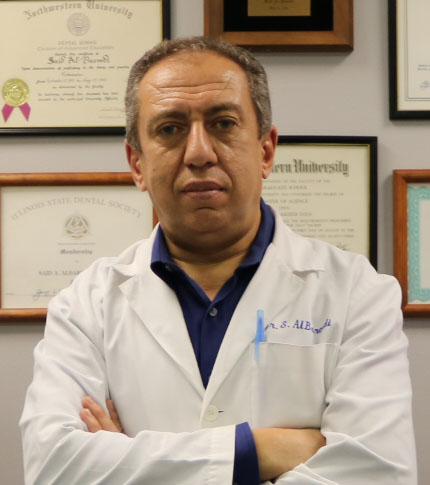
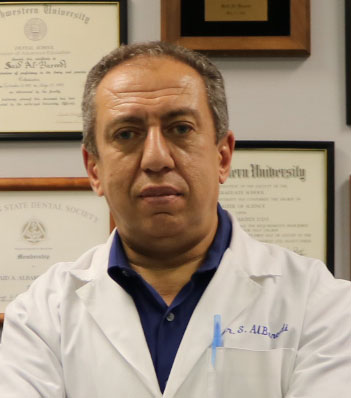
mobile functionality

diff --git a/style.css b/style.css
@@ -98,7 +98,7 @@ body {
   font-family: "Russo One", sans-serif;
 }
 .logoTextBottom {
-  background-color: orange;
+  /* background-color: orange; */
   font-size: 14px;
   letter-spacing: 0.4px;
   font-family: "Titillium Web", sans-serif;
@@ -599,6 +599,7 @@ input.contactFormInput:valid + .formIcon {
   grid-column: 3/4;
 }
 .contactIcon {
+  /* background-color: pink; */
   margin-right: 4px;
   font-size: 18px;
   opacity: 0.9;
@@ -703,7 +704,7 @@ input.contactFormInput:valid + .formIcon {
 .statNumber {
   font-family: "Poppins", sans-serif;
   color: #00c2d7;
-  font-size: 27px;
+  font-size: 28px;
   margin-bottom: 2px;
 }
 .statDescription {
@@ -926,6 +927,7 @@ input.contactFormInput:valid + .formIcon {
   font-style: italic;
 }
 .doctorImgParent {
+  position: relative;
   width: 180px;
   height: 180px;
   border-radius: 90px;
@@ -934,6 +936,7 @@ input.contactFormInput:valid + .formIcon {
   margin: 0px auto 20px;
 }
 .doctorImg {
+  position: absolute;
   height: auto;
   width: 200px;
 }

diff --git a/index.html b/index.html
@@ -170,7 +170,7 @@
           <div class="doctorName">Dr. Said Albareedi</div>
           <div class="doctorImgParent">
             <img
-              src="./images/logo60.svg"
+              src="./images/docClear.png"
               alt="Dr. Said Albareedi"
               class="doctorImg"
             />
